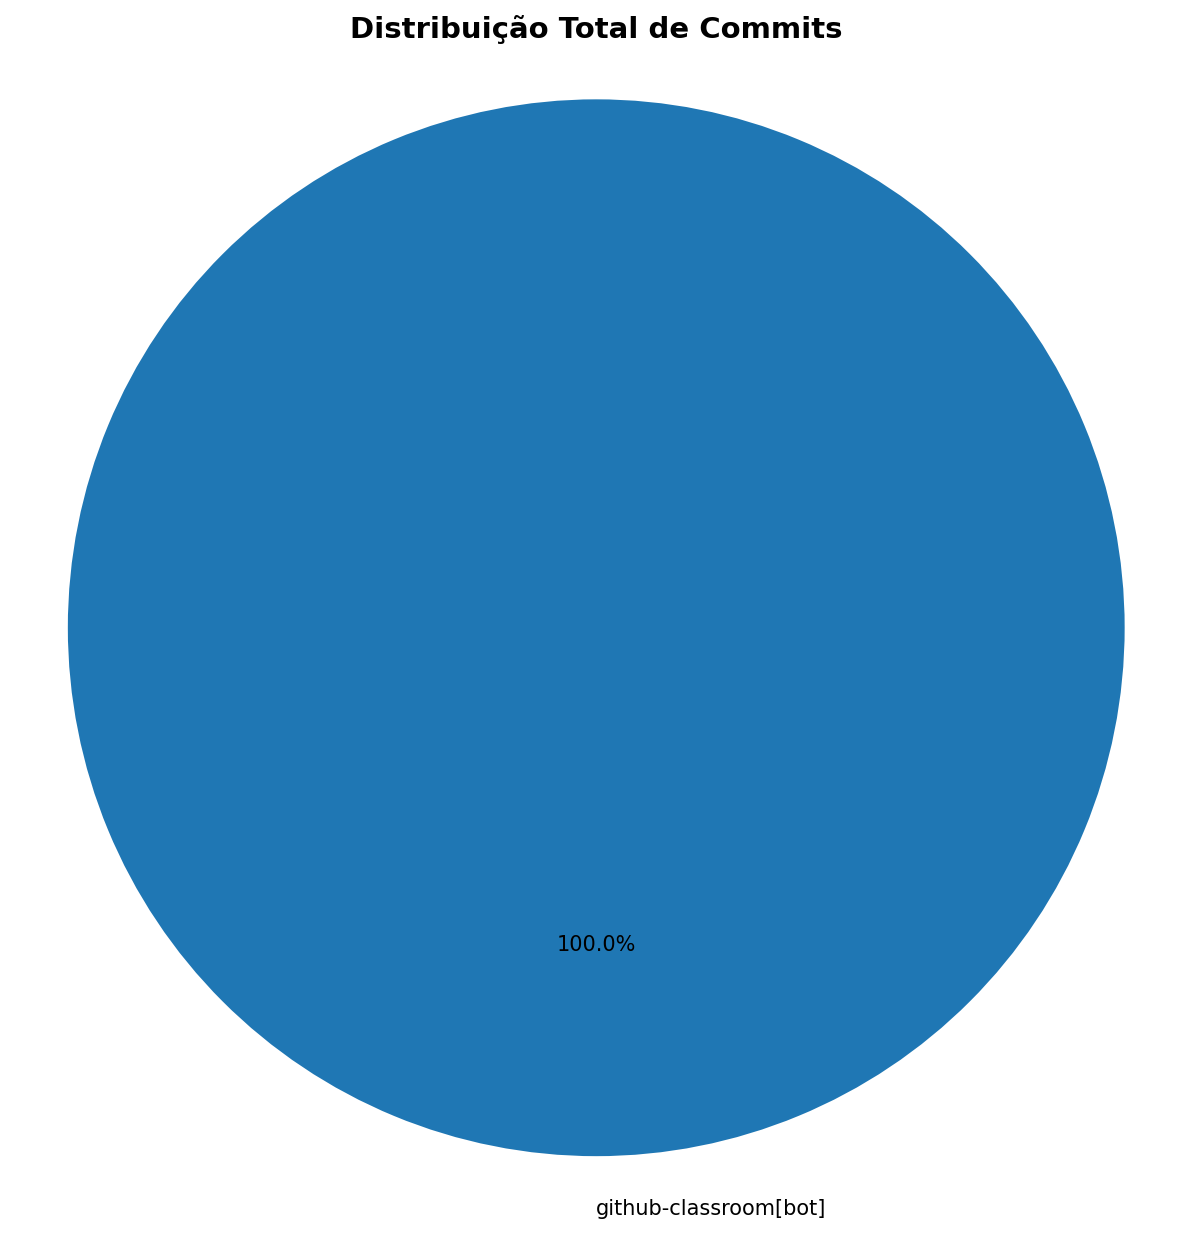
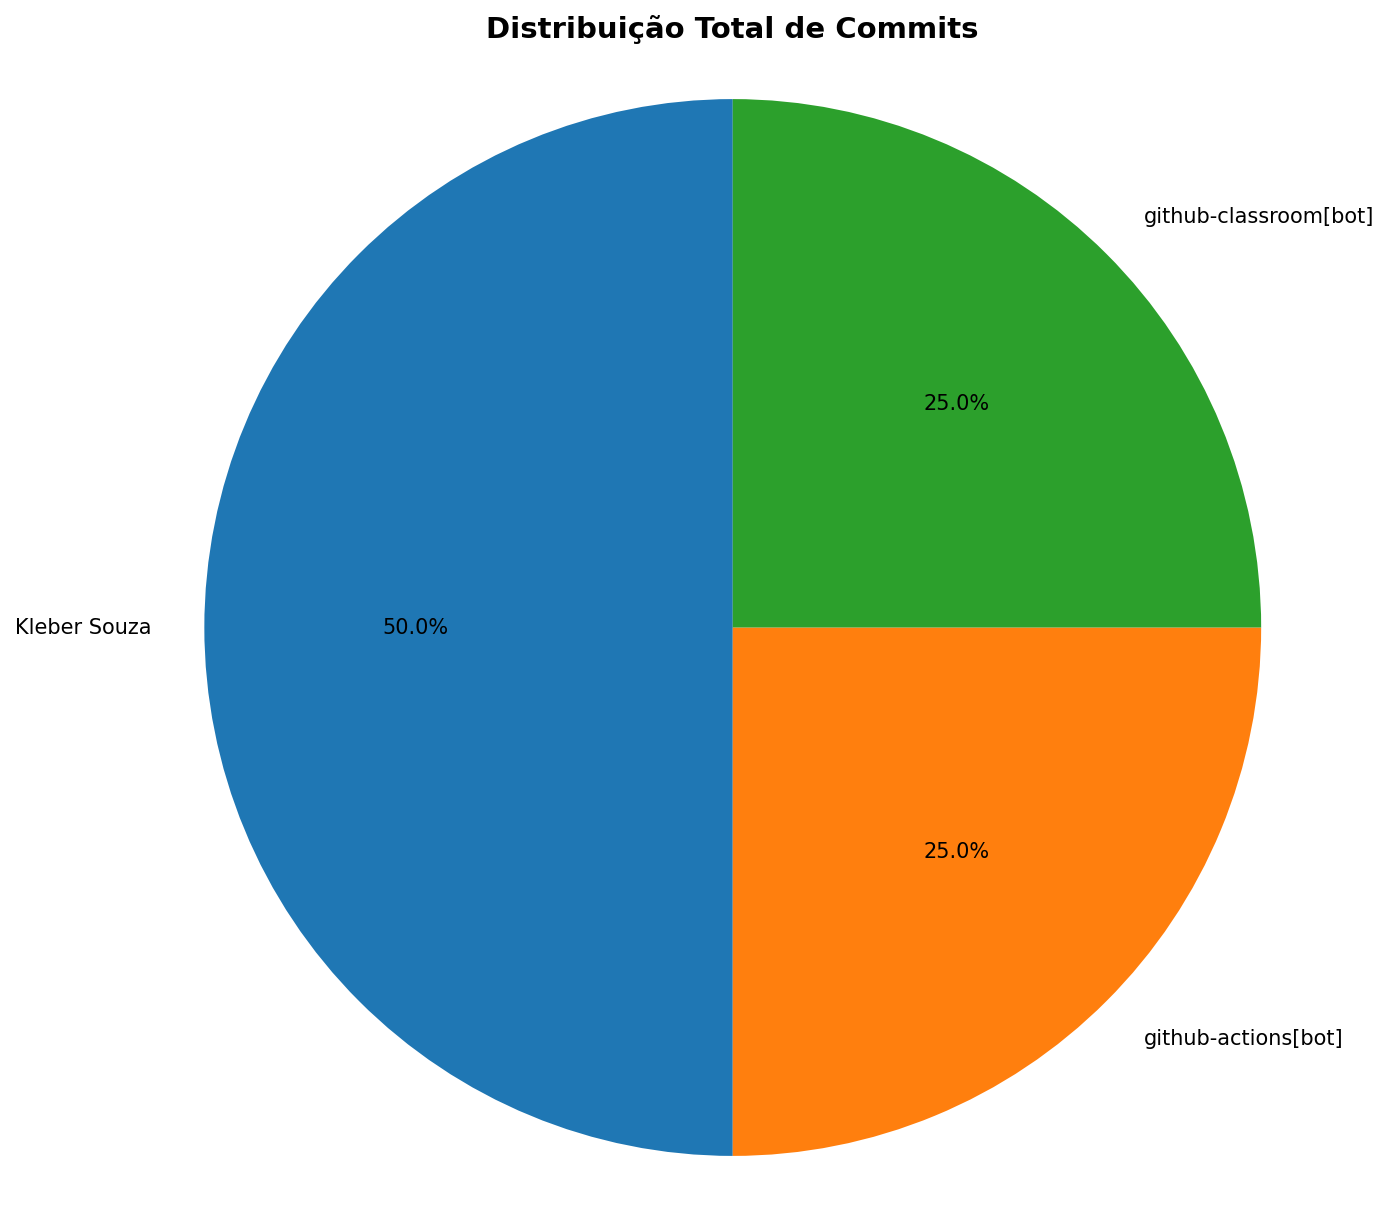
📊 Atualizar relatório de contribuições [skip ci]

diff --git a/documentos/CONTRIBUTION_REPORT.md b/documentos/CONTRIBUTION_REPORT.md
@@ -1,6 +1,6 @@
 # 📊 Relatório de Contribuições do Projeto
 
-**Última atualização:** 19/03/2026 18:51
+**Última atualização:** 19/03/2026 18:55
 
 ---
 
@@ -8,12 +8,14 @@
 
 | Aluno                 |   Commits |   Linhas+ |   Linhas- |   Arquivos |   Docs Commits |   Docs Arquivos |
 |-----------------------|-----------|-----------|-----------|------------|----------------|-----------------|
+| Kleber Souza          |         2 |         2 |         2 |          2 |              2 |               1 |
+| github-actions[bot]   |         1 |        43 |         0 |          3 |              1 |               1 |
 | github-classroom[bot] |         1 |       774 |         0 |         19 |              1 |               3 |
 
 
 ## 📅 Contribuições Semanais (Todo o Semestre)
 
-**2026-03-12**: github-classroom[bot]: 1
+**2026-03-12**: Kleber Souza: 2, github-actions[bot]: 1, github-classroom[bot]: 1
 
 
 
